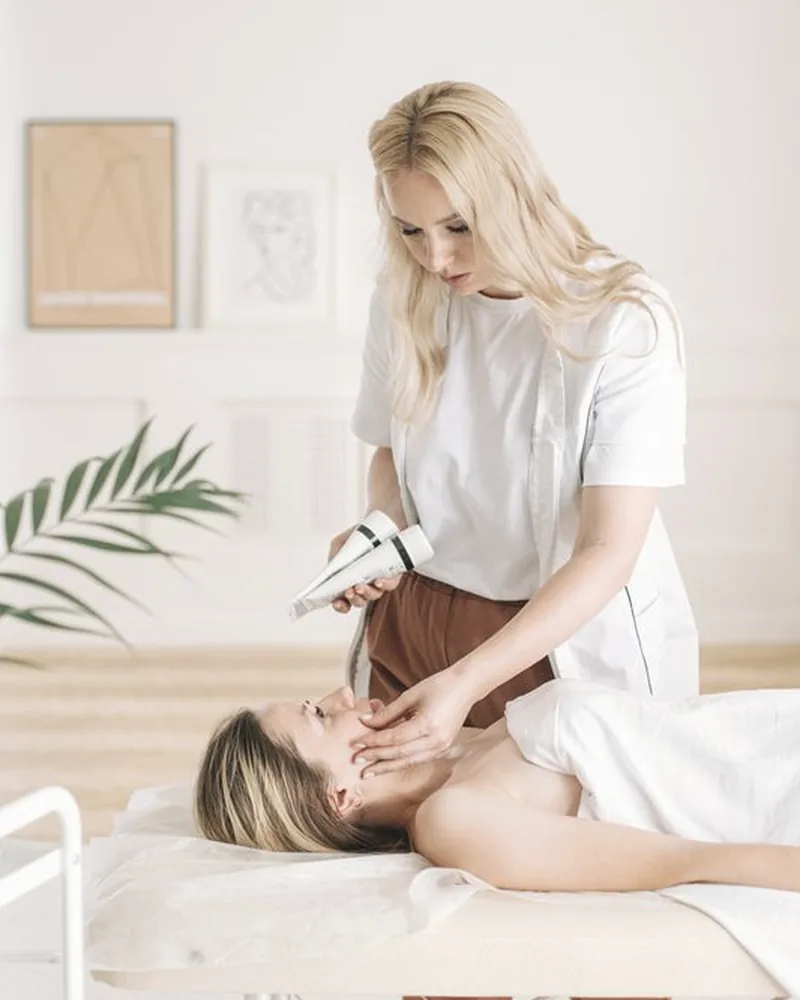
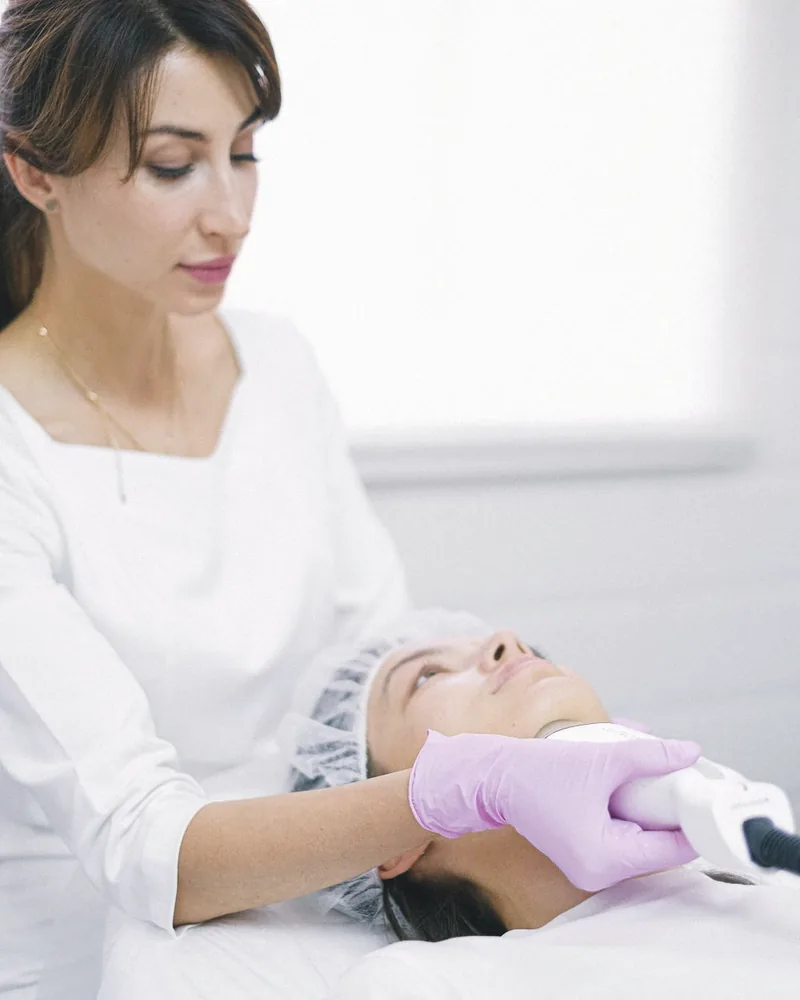
Verify and document Eden Med Spa Round 4

diff --git a/site/index.html b/site/index.html
@@ -120,7 +120,7 @@
   <div class="utility-bar" aria-label="Eden Med Spa details"><span>714 E Palmetto Park Rd, Boca Raton</span><span>Tue–Fri 10am–6pm</span><span><a href="tel:5619319320">Call 561.931.9320</a> · <a href="sms:5619319320">Text us</a></span></div>
   <header class="site-header" id="top">
     <div class="header-inner wrap">
-      <a class="brand" href="#top" aria-label="Eden Med Spa home"><span class="brand-lockup" aria-hidden="true"><span class="brand-eden">EDEN</span><span class="brand-med">med</span></span></a>
+      <a class="brand" href="#top"><span class="brand-lockup"><span class="brand-eden">EDEN</span><span class="brand-med">med</span></span></a>
       <nav class="main-nav" id="main-nav" aria-label="Main navigation">
         <a href="#treatments">Treatments</a><a href="#injectables">Injectables</a><a href="#skin">Skin</a><a href="#wellness">Wellness</a><a href="#about">About</a><a href="#contact">Contact</a>
         <div class="mobile-menu-contact"><a href="tel:5619319320">Call 561.931.9320</a><a href="sms:5619319320">Text us</a><p>714 E Palmetto Park Rd<br>Boca Raton, FL 33432</p></div>
@@ -239,7 +239,7 @@
   </main>
   <footer class="site-footer"><div class="wrap">
     <div class="footer-main">
-      <a class="footer-brand" href="#top" aria-label="Eden Med Spa home"><span class="brand-lockup" aria-hidden="true"><span class="brand-eden">EDEN</span><span class="brand-med">med</span></span><span class="brand-descriptor">Advanced Aesthetics<br>&amp; Regenerative Medicine</span></a>
+      <a class="footer-brand" href="#top"><span class="brand-lockup"><span class="brand-eden">EDEN</span><span class="brand-med">med</span></span><span class="brand-descriptor">Advanced Aesthetics<br>&amp; Regenerative Medicine</span></a>
       <nav aria-label="Footer navigation"><h2>Explore</h2><a href="#treatments">Treatments</a><a href="#about">Meet Limor</a><a href="#reviews">Patient reviews</a><a href="#contact">Visit us</a></nav>
       <div class="footer-contact"><h2>Contact</h2><a href="https://maps.google.com/?q=714+E+Palmetto+Park+Rd+Boca+Raton">714 E Palmetto Park Rd<br>Boca Raton, FL 33432</a><a href="tel:5619319320">561.931.9320</a><a href="mailto:info@edenmedicine.com">info@edenmedicine.com</a></div>
       <div class="footer-social"><h2>Follow</h2><div class="socials"><a href="https://www.instagram.com/edenmedicine/" aria-label="Instagram"><svg viewBox="0 0 24 24" aria-hidden="true"><rect x="3.5" y="3.5" width="17" height="17" rx="5"/><circle cx="12" cy="12" r="4"/><circle class="instagram-dot" cx="17.5" cy="6.8" r="1"/></svg></a><a href="https://www.facebook.com/edenmedicine/" aria-label="Facebook"><svg viewBox="0 0 24 24" aria-hidden="true"><path d="M13.6 21v-8h2.7l.4-3.1h-3.1v-2c0-.9.3-1.5 1.6-1.5h1.7V3.6c-.3 0-1.3-.1-2.4-.1-2.4 0-4.1 1.5-4.1 4.2v2.3H7.7v3.1h2.7v8z"/></svg></a><a href="https://www.tiktok.com/@edenmedicine" aria-label="TikTok"><svg viewBox="0 0 24 24" aria-hidden="true"><path d="M14 3h3c.2 2 1.4 3.5 3.5 3.9v3.2a8.1 8.1 0 0 1-3.5-1.1v5.8a6.5 6.5 0 1 1-6.5-6.5c.4 0 .9 0 1.3.1v3.4a3.2 3.2 0 1 0 2.2 3V3z"/></svg></a></div></div>

diff --git a/site/styles.css b/site/styles.css
@@ -403,3 +403,18 @@ h3,h4,.treatment-row h4,.faq-item h3,.team-cards h3,.review-person h3{font:500 2
 .footer-main h2{margin:0 0 8px;font:500 15px/1.3 var(--e-global-typography-text-font-family);letter-spacing:.03em;color:#223A2A}
 .footer-contact a,.footer-main nav a{color:#4A423B}.socials{display:flex;gap:14px;margin:2px 0 0}.socials a{display:grid;place-items:center;width:36px;height:36px;border:1px solid var(--line);border-radius:50%;color:#223A2A}.socials svg{width:16px;height:16px;fill:currentColor}.footer-bottom{font-size:13px}.footer-bottom p{font-size:13px;color:#6E645B}
 @media(max-width:767px){.section,.founder,.why-eden,.instagram{padding-block:72px}.founder{row-gap:28px}.team{grid-template-columns:1fr;gap:15px;margin-top:8px;padding-top:21px}.team-cards{gap:18px}.team-cards figure{width:auto;flex:1;gap:9px;align-items:flex-start;flex-direction:column}.team-cards img{width:64px;height:64px;flex-basis:64px}.team-cards h3{font-size:18px}.team-cards p{font-size:14px}.reviews{padding-block:72px}.reviews-heading h2{font-size:34px}.review-track{width:max-content;gap:14px}.review-card{flex:0 0 calc(100vw - 92px);min-height:250px;padding:20px}.review-viewport{overflow-x:auto;scroll-snap-type:x mandatory;overscroll-behavior-inline:contain}.review-card{scroll-snap-align:start}.review-person{align-items:flex-start;flex-direction:column;gap:2px}.review-card blockquote{font-size:17px}.reviews-foot{justify-content:flex-start}.instagram-grid{display:grid;grid-template-columns:repeat(2,minmax(0,1fr));gap:10px}.footer-main{grid-template-columns:repeat(2,minmax(0,1fr));gap:28px 20px;padding-block:28px}.footer-brand{grid-column:1/-1}.footer-main nav,.footer-contact,.footer-social{font-size:14px}.footer-bottom{display:flex;flex-direction:column;align-items:flex-start;gap:10px}.footer-bottom p{font-size:13px}}
+.hero h1{font-size:72px;line-height:1.02}
+.hero .hero-description{color:#F8F4EC;text-shadow:0 1px 6px #0008}
+.treatments .section-heading.treatment-heading{display:block}
+.site-footer .brand-lockup,.site-footer .brand-descriptor,.footer-main h2,.footer-main nav a,.footer-contact a,.footer-bottom p,.footer-bottom a{color:#F8F4EC}
+.site-footer .brand-descriptor,.footer-bottom p{color:#D5CCBE}
+.footer-main nav,.footer-contact,.footer-social{color:#F8F4EC}
+.socials a{border-color:#F8F4EC66;color:#F8F4EC}
+.button,.button-outline,.hero-actions .button,.treatment-cta .button,.consultation-actions .button,.mobile-actions .button{height:48px;min-height:48px;padding-block:0;font-size:14px;font-weight:500;letter-spacing:.04em}
+.hero-actions .button:first-child{font-size:14px}
+.site-header .header-book,.mobile-actions>a{height:48px;min-height:48px}
+.call-link,.mobile-actions>a:not(.button){font-size:14px}
+.team-cards h3,.faq-item h3{font-size:20px}
+.financing h2{font:500 20px/1.3 var(--e-global-typography-text-font-family);color:#223A2A}
+@media(max-width:767px){.hero h1{font-size:42px}}
+@media(max-width:767px){.faq-item h3,.financing h2{font-size:18px}}

diff --git a/NOTES.md b/NOTES.md
@@ -5,6 +5,14 @@ updated: 2026-10-13
 ---
 # Eden Med Spa — homepage concept
 
+## Round 4 changes
+
+- Simplified typography to large Cormorant headings and Jost for the rest; added the utility bar, centered navigation, solid EDEN med wordmarks, and a full-screen mobile menu. The hero still uses the existing Round 3 video.
+- Replaced the concern tiles and text list with 16 linked treatment cards across Injectables, Skin, Wellness, and Body & Hair. Cards use 4:5 locally processed images, including Eden’s existing wrinkle-relaxer, filler, and HydraDerm photos plus Pexels photos under the [Pexels license](https://www.pexels.com/license/): [34220534](https://www.pexels.com/photo/woman-receiving-cosmetic-injection-treatment-34220534/), [4586755](https://www.pexels.com/photo/a-woman-having-facial-care-4586755/), [20683632](https://www.pexels.com/photo/skin-care-procedure-on-woman-face-20683632/), [4586728](https://www.pexels.com/photo/a-woman-doing-facial-care-to-her-patient-4586728/), [5938601](https://www.pexels.com/photo/ethnic-woman-applying-cream-on-face-in-morning-5938601/), [31797384](https://www.pexels.com/photo/relaxing-spa-facial-treatment-session-31797384/), [34930099](https://www.pexels.com/photo/professional-facial-treatment-at-spa-34930099/), [8076229](https://www.pexels.com/photo/beauty-cosmetics-on-table-top-8076229/), [3736399](https://www.pexels.com/photo/lotions-in-a-beauty-salon-3736399/), [3992806](https://www.pexels.com/photo/woman-having-a-check-up-3992806/), [7088494](https://www.pexels.com/photo/people-woman-sitting-doctor-7088494/), [7772681](https://www.pexels.com/photo/unrecognizable-female-under-laser-weight-loss-machine-on-medical-table-7772681/), and [3738365](https://www.pexels.com/photo/photo-of-person-applying-cream-to-womans-hands-3738365/).
+- Moved the compact Our team row under Meet Limor, changed reviews to a manual carousel with three visible cards, aligned the Instagram tiles, and organized the footer into four columns with icon links.
+- Removed visible promotional filler and disclaimer lines while retaining the Boca-area service sentence, noindex directive, MedicalBusiness and FAQ schema, map, reviews, and section order.
+- Compared the header and treatment hierarchy with [Allure Aesthetics](https://www.allurefl.com/) and made one correction pass. Final captures are `screenshots/round4-1440.png` and `screenshots/round4-375.png`; Lighthouse accessibility scored 100, both widths have no horizontal overflow, the mobile menu opens full-screen, and the sticky action bar hides before the footer. Chrome playback stayed at 1× through a loop with zero dropped frames in the desktop capture.
+
 ## Round 3 changes
 
 - Replaced the hammam with a bright, white-room facial clip from [Mixkit](https://mixkit.co/free-stock-video/woman-working-in-a-spa-52142/) under its [commercial-use Free License](https://mixkit.co/license/#videoFree). The 9.68-second H.264 loop is 0.99 MB, native 23.98 fps, silent and poster-first, with a blended loop seam and reduced-motion fallback.
@@ -46,7 +54,7 @@ Open `site/index.html` to preview, or serve the `site/` directory with any stati
 
 Images and fonts are local. Only the embedded Google Map and outbound links need internet access. Booking, treatment, gallery and policy links intentionally open Eden’s existing website; this demo does not collect patient information or submit appointments.
 
-The demo is intentionally **noindex, nofollow**, with its canonical URL pointing to the real homepage, so an uploaded pitch does not compete with Eden’s live site. For the approved production rebuild, remove the noindex directive, confirm canonical/OG URLs, replace the design-concept footer note and re-test the deployed site.
+The demo is intentionally **noindex, nofollow**, with its canonical URL pointing to the real homepage, so an uploaded pitch does not compete with Eden’s live site. For the approved production rebuild, remove the noindex directive, confirm canonical/OG URLs and stock imagery, and re-test the deployed site.
 
 **Before the production launch:** confirm opening hours with Limor. The linked Square booking location currently lists Tuesday–Friday, 10 am–6 pm, with Saturday–Monday closed; an older storefront photograph shows Saturday hours. The demo and schema use the current booking data. Confirm current availability and clinical wording for all treatments, particularly stem cells, prescription weight-loss care, peptides and booking-menu additions. See [research and sources](eden-research.md).
 
